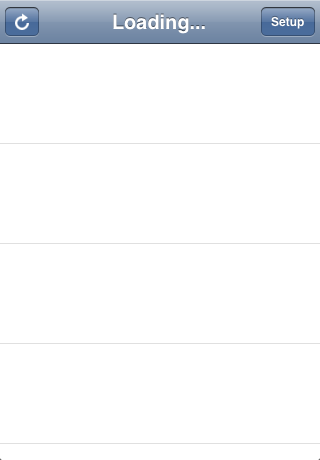
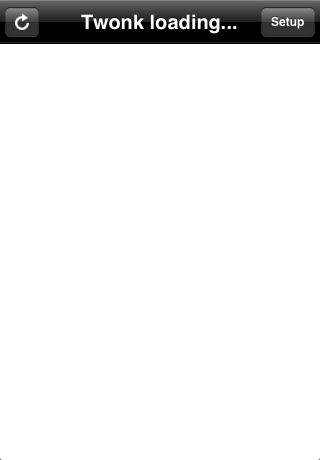
Bug fixin'

Changed region(s): [[0.0, 0.0, 1.0, 0.1217]]

diff --git a/Classes/SettingsViewController.m b/Classes/SettingsViewController.m
@@ -25,6 +25,8 @@
 	NSString *uname = nil;
 	NSString *pass = nil;
 	
+	_mobileSwitch.on = [[NSUserDefaults standardUserDefaults] boolForKey:@"mobileTwitter"];
+	
 	if ((uname = [[NSUserDefaults standardUserDefaults] stringForKey:@"username"]) &&
 		(pass = [[NSUserDefaults standardUserDefaults] stringForKey:@"password"])) {
 		_username.text = _enterUser = uname;
@@ -37,10 +39,15 @@
 
 - (void) viewWillDisappear:(BOOL)animated
 {
+	NSLog(@"%@ vs %@ -- %@ vs %@", _enterUser, _username.text, _enterPass, _password.text);
 	if ((!_enterUser && !_enterPass) || 
 		((_enterUser && ![_enterUser isEqualToString:_username.text]) ||
-		(_enterPass && ![_enterPass isEqualToString:_password.text])))
+		 (_enterPass && ![_enterPass isEqualToString:_password.text]))) {
+		NSLog(@"Posting notification...");
+		[[NSUserDefaults standardUserDefaults] setObject:_username.text forKey:@"username"];
+		[[NSUserDefaults standardUserDefaults] setObject:_password.text forKey:@"password"];
 		[[NSNotificationCenter defaultCenter] postNotificationName:@"UserAndPassSet" object:nil];
+	}
 	
 	[super viewWillDisappear:animated];
 }
@@ -90,14 +97,8 @@
 	return YES;
 }
 
-- (IBAction) usernameFieldChanged:(id)sender;
+- (IBAction) mobileSwitchToggle:(id)sender;
 {
-	[[NSUserDefaults standardUserDefaults] setObject:_username.text forKey:@"username"];
+	[[NSUserDefaults standardUserDefaults] setBool:_mobileSwitch.on forKey:@"mobileTwitter"];
 }
-
-- (IBAction) passwordFieldChanged:(id)sender;
-{
-	[[NSUserDefaults standardUserDefaults] setObject:_password.text forKey:@"password"];
-}
-
 @end

diff --git a/Classes/RootViewController.m b/Classes/RootViewController.m
@@ -6,7 +6,7 @@
 #import "DetailViewController.h"
 #import "SettingsViewController.h"
 
-#define kRowHeightDefault		100.0
+#define kRowHeightDefault		90.0
 #define kDefaultTweetFontSize	13.0
 #define kDefaultRefreshInterval	30.0
 
@@ -18,6 +18,7 @@
 - (void) _dataUpdated:(NSNotification*)notify;
 {
 	[self.tableView reloadData];
+	
 	self.title = NSLocalizedString(([NSString stringWithFormat:@"%@'s Friends", [[NSUserDefaults standardUserDefaults] stringForKey:@"username"]]), 
 								   @"Master view navigation title");
 	[UIApplication sharedApplication].networkActivityIndicatorVisible = NO;
@@ -37,7 +38,8 @@
 	}
 	
 	[UIApplication sharedApplication].networkActivityIndicatorVisible = YES;
-	self.title = NSLocalizedString(([NSString stringWithFormat:@"Loading %@", [[NSUserDefaults standardUserDefaults] stringForKey:@"username"]]), @"Master view navigation title");
+	self.title = NSLocalizedString(([NSString stringWithFormat:@"Loading %@", [[NSUserDefaults standardUserDefaults] stringForKey:@"username"]]), 
+								   @"Master view navigation title");
 	[self.dataController reloadWithStandardUserInfo];
 }
 
@@ -69,7 +71,7 @@
 
 - (id)initWithStyle:(UITableViewStyle)style {
     if (self = [super initWithStyle:style]) {
-        self.title = NSLocalizedString(@"Loading...", @"Master view navigation title");
+        self.title = NSLocalizedString(@"Twonk loading...", @"Master view navigation title");
 		self.dataController = nil;
 		
 		((UITableView*)self.view).rowHeight = kRowHeightDefault;

diff --git a/Classes/DetailViewController.m b/Classes/DetailViewController.m
@@ -55,7 +55,6 @@
 
 - (NSInteger)numberOfSectionsInTableView:(UITableView *)tableView {
 	return 5;
-    //return 4;
 }
 
 
@@ -81,7 +80,9 @@
 				
 			case 4:
 				if (![cell.text isEqualToString:@"No Reply"]) {
-					url = [NSURL URLWithString:[NSString stringWithFormat:@"http://m.twitter.com/%@", [[cell.text componentsSeparatedByString:@"@"] objectAtIndex:1]]];
+					url = [NSURL URLWithString:[NSString stringWithFormat:@"http://%@twitter.com/%@",
+												([[NSUserDefaults standardUserDefaults] boolForKey:@"mobileTwitter"] ? @"m." : @""),
+												[[cell.text componentsSeparatedByString:@"@"] objectAtIndex:1]]];
 					NSLog(@"URL %@", url);
 				}
 				
@@ -106,7 +107,7 @@
 			
 			_webViewCtrlr.title = [url host];
 			[webView loadRequest:[NSURLRequest requestWithURL:url]];
-			[[self navigationController] pushViewController:_webViewCtrlr animated:YES];
+			[self.navigationController pushViewController:_webViewCtrlr animated:YES];
 		}
 	}
 }

diff --git a/Classes/SettingsViewController.h b/Classes/SettingsViewController.h
@@ -12,11 +12,11 @@
 @interface SettingsViewController : UIViewController <UITextFieldDelegate> {
 	IBOutlet UITextField *_username;
 	IBOutlet UITextField *_password;
+	IBOutlet UISwitch *_mobileSwitch;
 	
 	NSString *_enterUser;
 	NSString *_enterPass;
 }
 
-- (IBAction) usernameFieldChanged:(id)sender;
-- (IBAction) passwordFieldChanged:(id)sender;
+- (IBAction) mobileSwitchToggle:(id)sender;
 @end

diff --git a/Classes/SimpleDrillDownAppDelegate.m b/Classes/SimpleDrillDownAppDelegate.m
@@ -20,6 +20,7 @@
     
     UINavigationController *aNavigationController = [[UINavigationController alloc] initWithRootViewController:rootViewController];
     self.navigationController = aNavigationController;
+	self.navigationController.navigationBar.barStyle = UIBarStyleBlackOpaque;
     [aNavigationController release];
     [rootViewController release];
     
